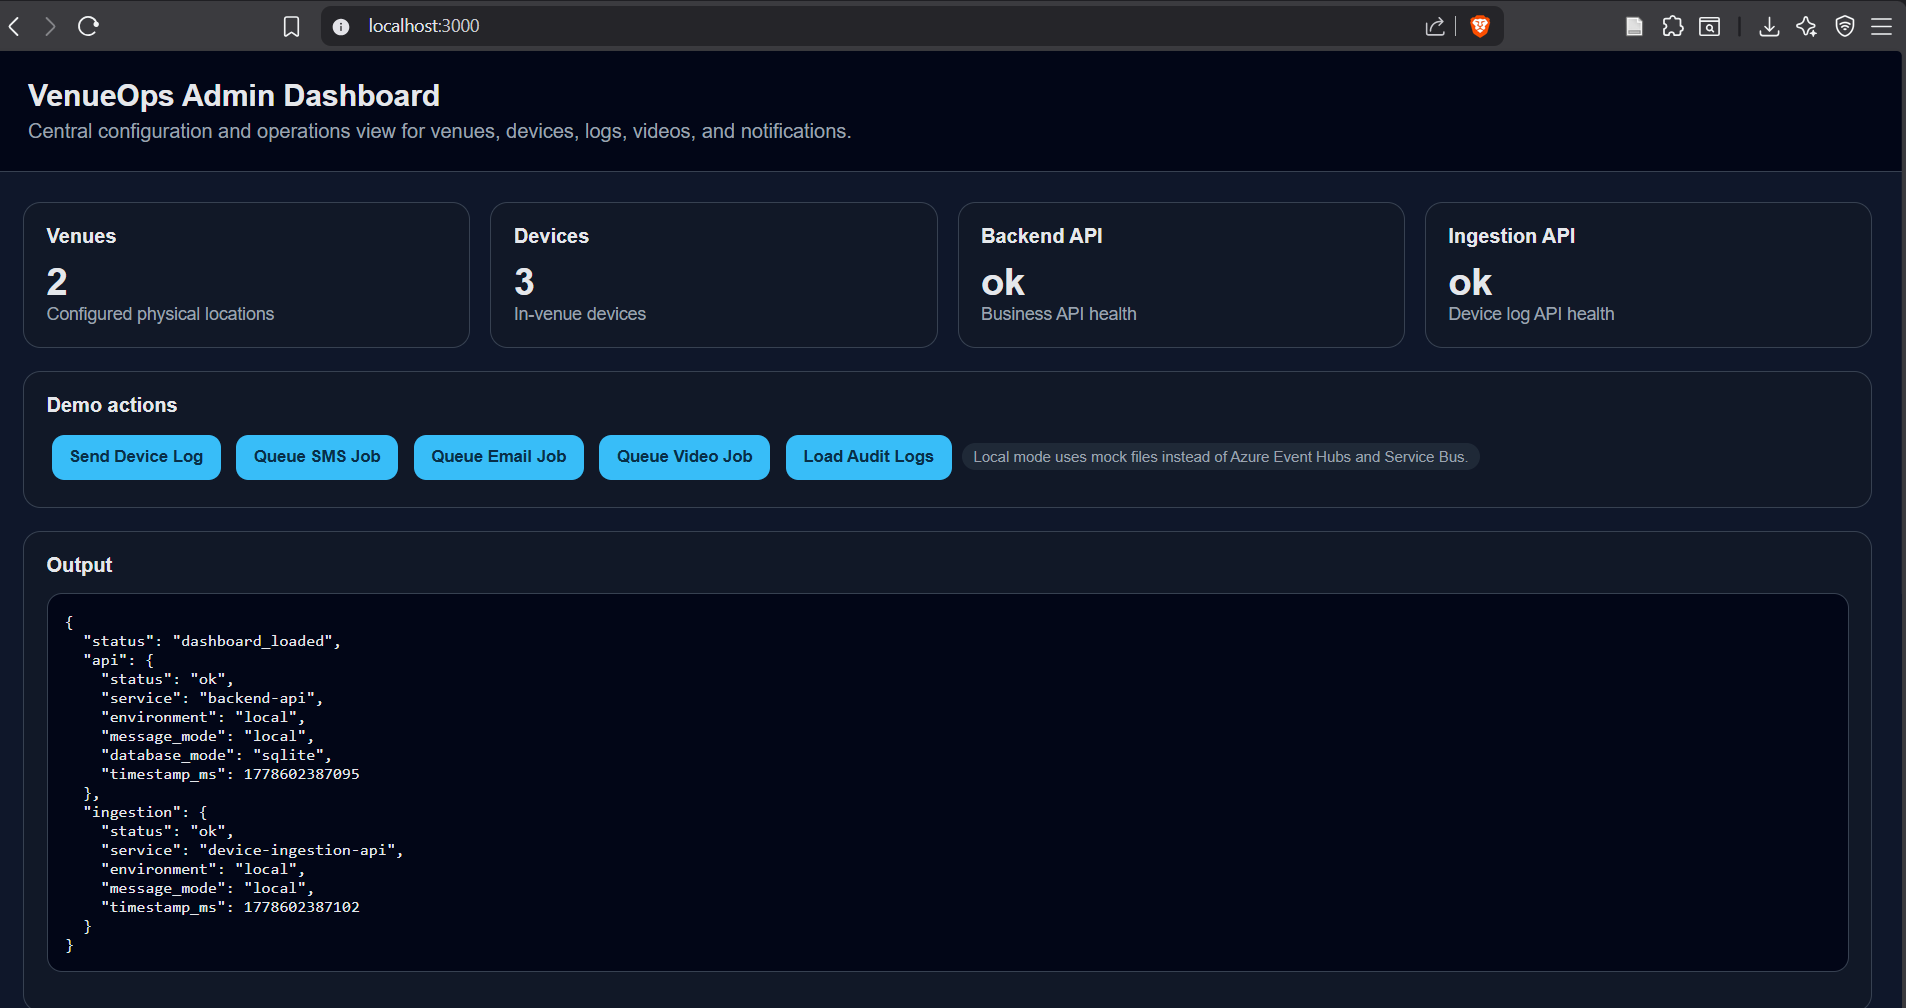
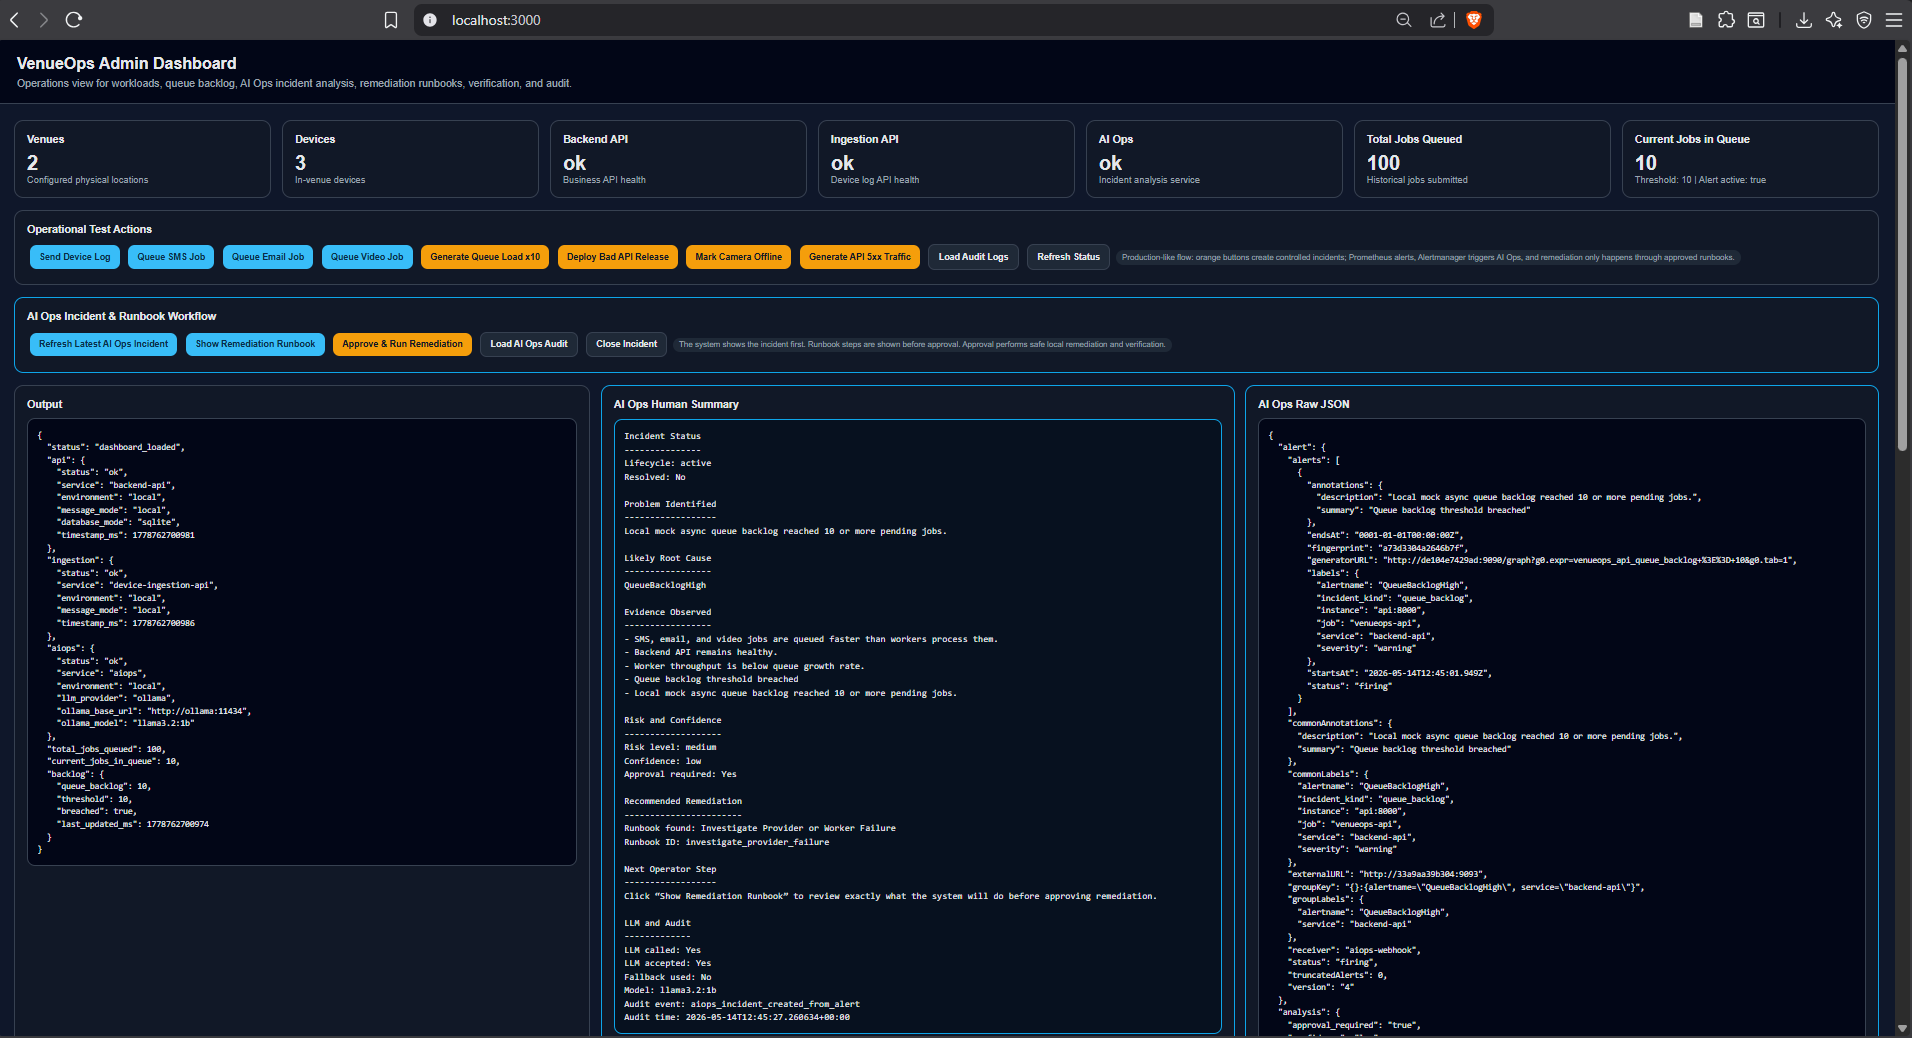
updated screenshots

diff --git a/README.md b/README.md
@@ -77,11 +77,6 @@ This is the main architecture diagram for the interview. It shows Cloudflare, Az
 
 ![VenueOps Production Cloud Architecture](docs/diagrams/venueops_cloud.png)
 
-### Production Azure Architecture
-
-High-level Azure production design.
-
-![VenueOps Production Azure Architecture](docs/diagrams/venueops_production.png)
 
 ### Local Testing Architecture
 